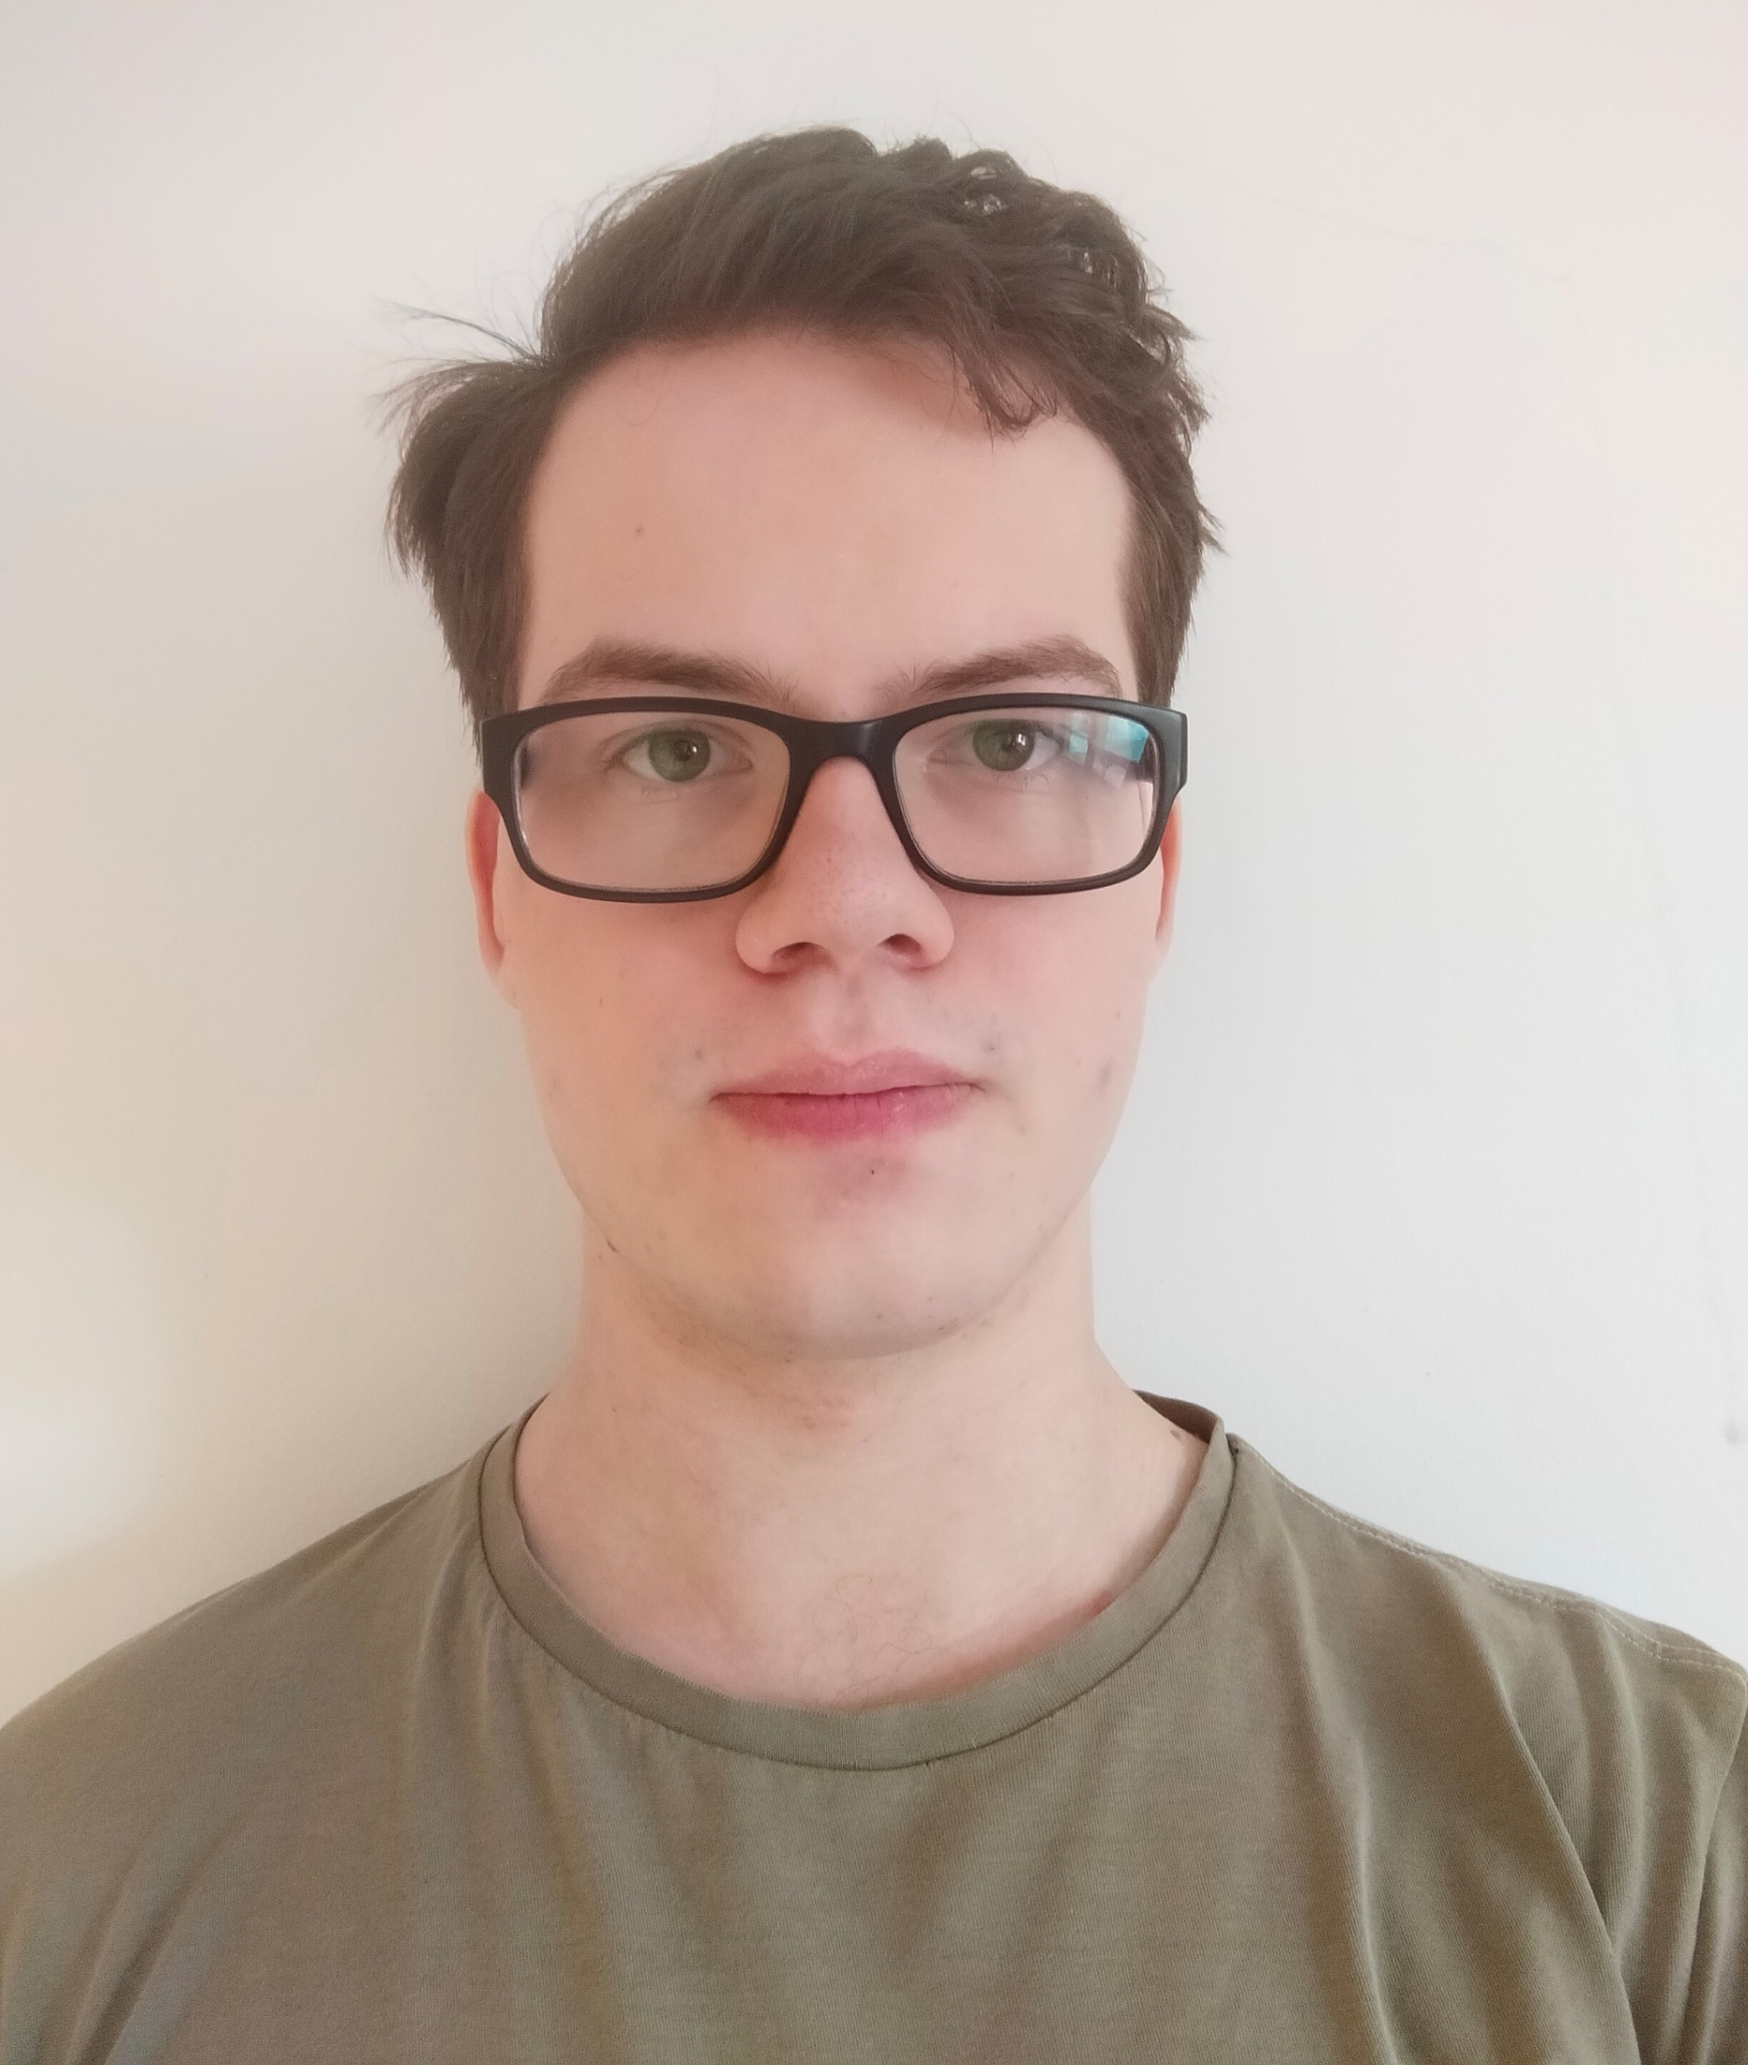
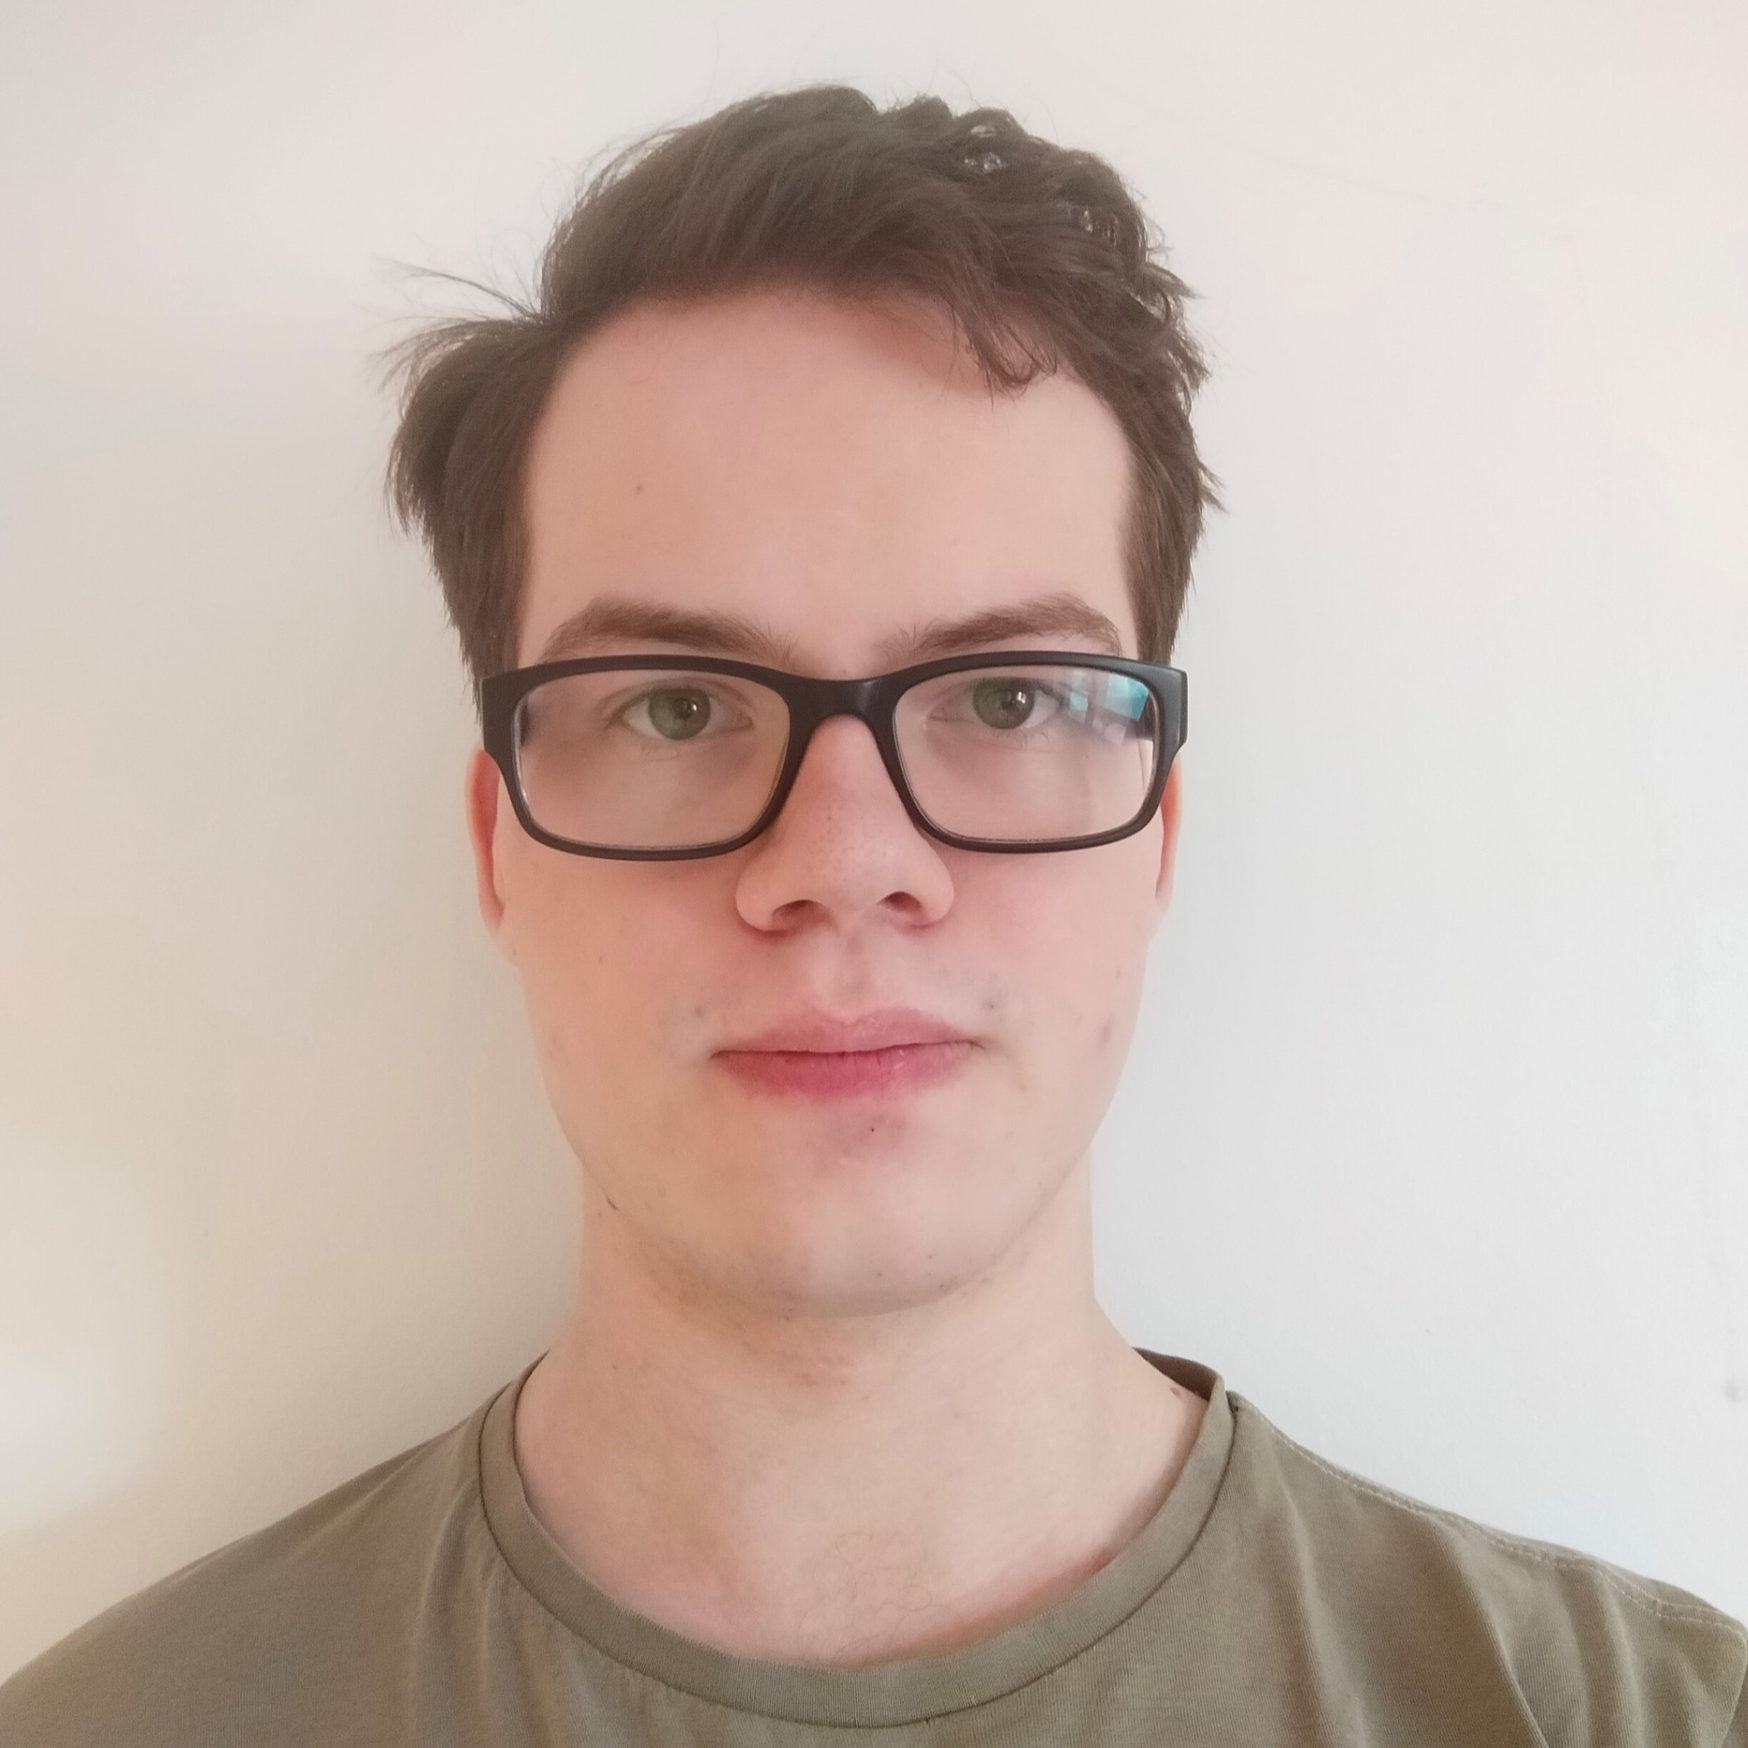
updated about section

diff --git a/src/lib/components/organisms/about.svelte b/src/lib/components/organisms/about.svelte
@@ -2,10 +2,15 @@
   import IconHeader from "../molecules/icon_header.svelte"
 </script>
 
-<IconHeader icon="browser" id="about" text="About" />
+<div class="grid items-center gap-6 sm:grid-cols-4">
+  <img src="./profile-image.jpg" alt="Michal Moudrý" class="w-full rounded-2xl" draggable="false" />
+  <div class="sm:col-span-3">
+    <IconHeader icon="browser" id="about" text="About" />
 
-<p class="text-justify">
-    .NET developer and occasionally a security engineer. Nowadays, working mostly in C# and .NET
-    ecosystem developing web services and other types of applications. Currently, I am learning Go,
-    C++ and Powershell.
-</p>
+    <p class="text-justify">
+        .NET developer and occasionally a security engineer. Nowadays, working mostly in C# and .NET
+        ecosystem developing web services and other types of applications. Currently, I am learning Go,
+        C++ and Powershell.
+    </p>
+  </div>
+</div>

diff --git a/src/lib/components/atoms/button.svelte b/src/lib/components/atoms/button.svelte
@@ -20,9 +20,16 @@
     */
     export let bgColor = null
 
+    /**
+     * @type {boolean}
+    */
+    export let isFullWidth = false
+
     let background = bgColor ?? "bg-white"
+
+    let width = isFullWidth ? "w-full" : ""
 </script>
 
-<button class="border border-black py-1 px-2 button-shadow {background} hover:bg-black hover:text-white" type="button" on:click={onClick} title={title}>
+<button class="border border-black py-1 px-2 button-shadow {background} {width} hover:bg-black hover:text-white" type="button" on:click={onClick} title={title}>
     {content}
 </button>

diff --git a/src/lib/components/organisms/skills.svelte b/src/lib/components/organisms/skills.svelte
@@ -22,6 +22,5 @@
         <li class="border-b py-1">XAML</li>
         <li class="pt-1">Power BI</li>
     </ul>
-
-    <Button title="View skills page" content="View skills page" bgColor="bg-red-300" />
 </div>
+<Button title="View skills page" content="View skills page" isFullWidth={true} bgColor="bg-orange-300" />
